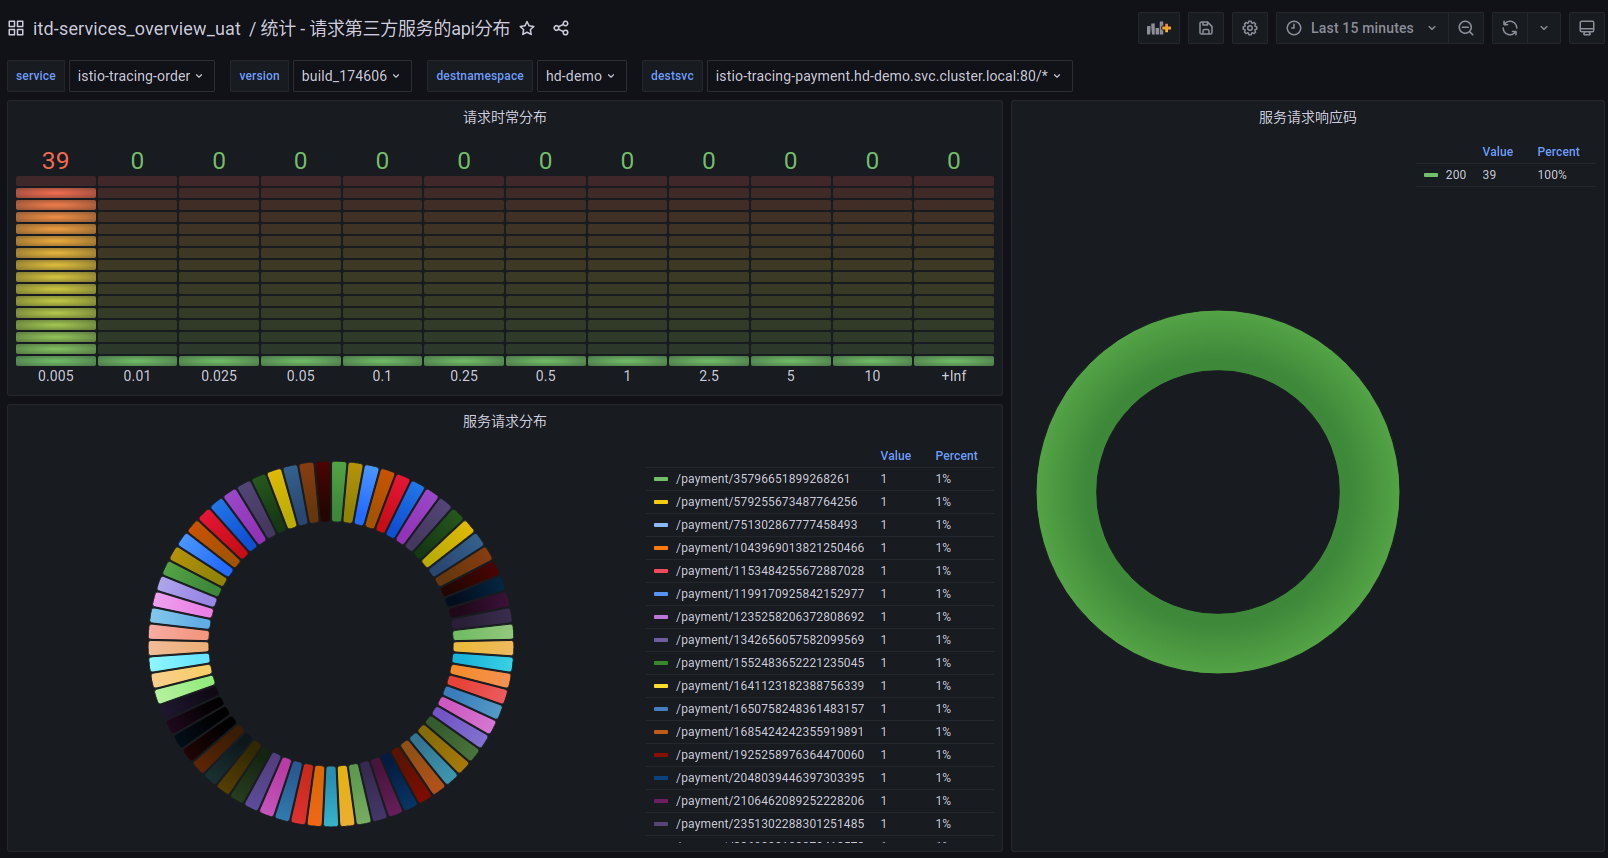
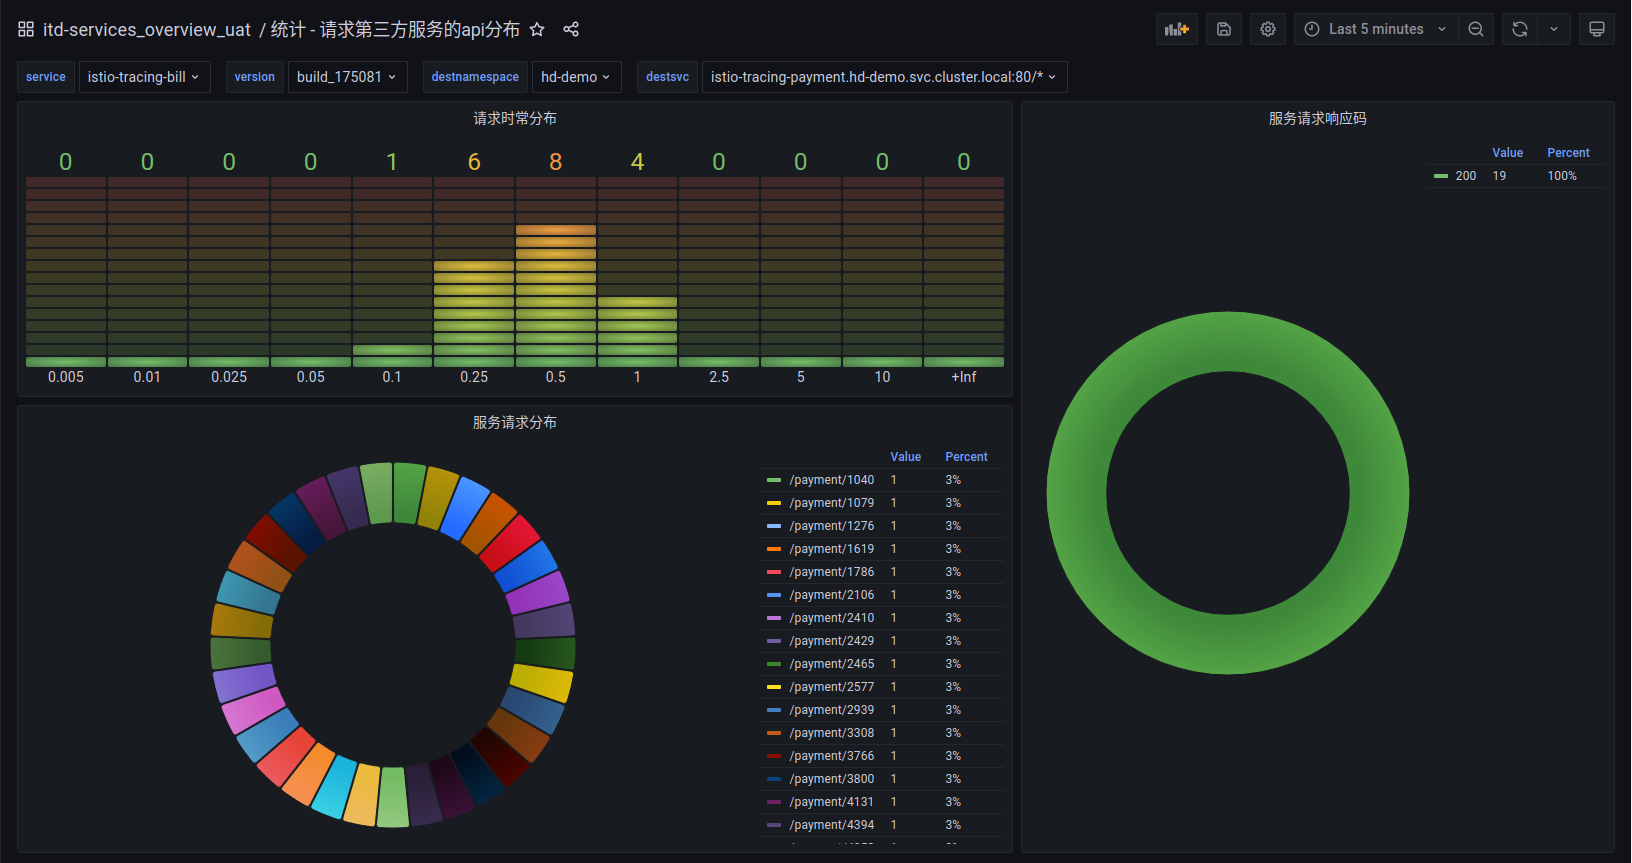
feat: update self-made/thesis/extended-trace-based-on-istio

diff --git a/self-made/thesis/extended-trace-based-on-istio/README.md b/self-made/thesis/extended-trace-based-on-istio/README.md
@@ -139,7 +139,7 @@
 <div align="center">
 <img src=images/api-share-client-side.png width="80%"/>
 </div>
-上述阐述了某时间范围内，istio-tracing-order服务的build_174606版本访问了hd-demo下的istio-tracing-paymeng服务,以及请求服务的api分布，状态码响应分布
+上述阐述了某时间范围内，istio-tracing-bill服务的build_175081版本访问了hd-demo下的istio-tracing-payment服务,以及请求服务的api分布，状态码响应分布
 
 - ##### api被访问增长情况
 知道了服务被请求的api分布，这个时候我们想知道具体api被请求的时序变化，如增长量变化等
